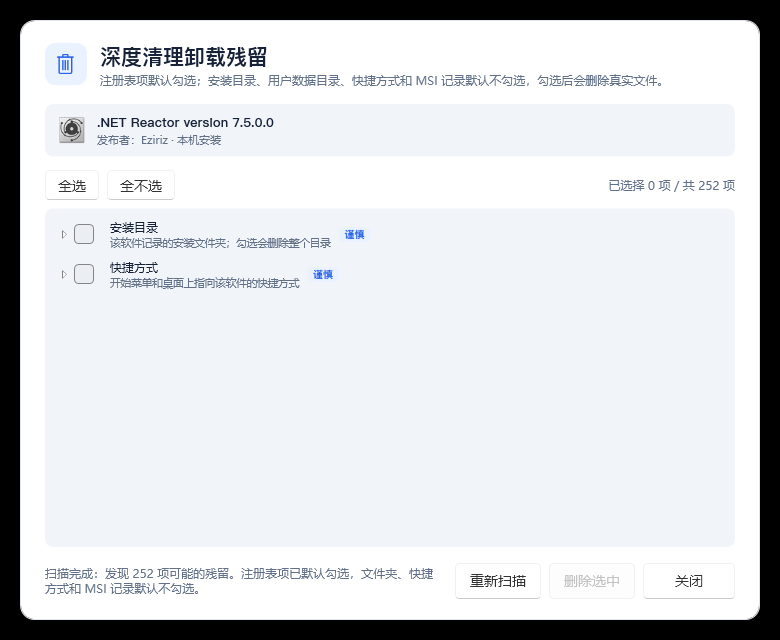
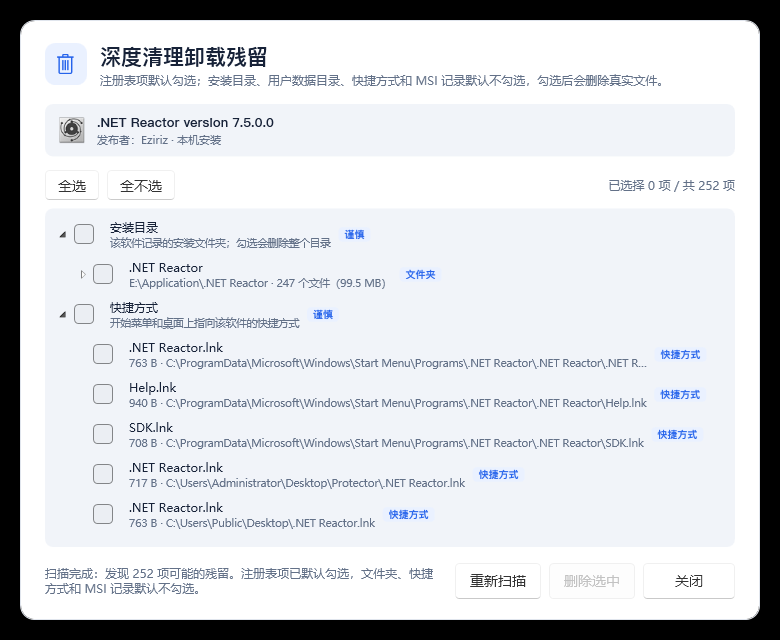
docs: 精简 README 为软件介绍/下载与使用指南，补充卸载与深度清理截图

diff --git a/README.md b/README.md
@@ -1,30 +1,18 @@
 # WinAppsManager
 
-Windows 软件管理器：WPF 桌面前端 + FastAPI 后端，支持联想应用商店、360 软件管家与内置精选三个软件源，提供软件目录、详情、截图、下载、卸载与残留清理。
-
-> 非商业源码许可（不是 OSI 开源许可）：允许个人学习、研究与非商业使用，**禁止商业使用、倒卖、销售或付费分发**。详见 [LICENSE](LICENSE)。
+Windows 软件管理器：像应用商店一样查找、下载和卸载 Windows 软件，支持联想应用商店、360 软件管家与内置精选三个软件源。
 
 ![软件列表](docs/screenshots/01-apps-list.png)
 
 ## 功能
 
-- **软件目录**：三个可切换的软件源（联想应用商店 / 360 软件管家 / 内置精选），分类导航、排序、分页、搜索；目录由后端缓存并定时更新。
-- **软件详情**：安装包大小、评分、开发者、分类、版本、多张应用截图，下载链接可复制/打开。
-- **下载中心**：并发分段下载、实时进度与速度、取消/重试/移除、打开安装包或下载目录；不自动运行安装包。
-- **卸载与残留清理**：读取 Windows 卸载注册表与当前用户 MSIX/商店应用，支持分类、搜索、批量卸载；卸载后可深度清理注册表项、安装目录、AppData、开始菜单/桌面快捷方式与 MSI 安装数据库，危险项默认不勾选，逐条校验后再删除。
-- **软件源与后端解耦**：软件源列表由服务端 `GET /api/v1/sources` 动态提供（含 `search_mode`：`catalog` 本地全量搜索 / `api` 服务端 API 搜索）；切换源后立即重新加载目录，左侧分类导航自动更新。后端地址可在设置中修改。
-- **体验与兼容**：浅色/深色/跟随系统主题、按系统架构过滤目录、Win7 SP1 兼容构建（net6）与 Win10 2004+ 完整构建（net8）、客户端/后端文件日志。
-
-### 深度清理残留
-
-卸载软件常留下注册表项、安装目录、AppData、开始菜单/桌面快捷方式和 MSI 安装数据库条目。WinAppsManager 在卸载后提供“深度清理残留…”：
-
-- 扫描九组位置：卸载登记项、`HKCU/HKLM\Software` 同名键、Run/RunOnce、启动项、Services、App Paths、安装目录、AppData/ProgramData、开始菜单/桌面快捷方式、MSI 产品/文件夹记录；
-- 结果按“文件夹 → 文件”展示，带大小与完整路径；**危险分组默认不勾选**，勾选后才删除；
-- 删除前逐条重新校验路径/注册表分支，只删勾选项，先删文件后清空目录，盘根、Windows、Program Files 等受保护位置一律拒绝；
-- 卸载过程支持停止，并按注册表/包是否存在核对卸载是否真正完成。
-
-![卸载与深度清理](docs/screenshots/09-deep-clean.png)
+- **软件商店**：联想应用商店、360 软件管家、内置精选三个源，随时切换；分类导航、排序、搜索、分页。
+- **软件详情**：安装包大小、评分、开发者、版本、应用截图；下载链接可复制或打开。
+- **下载中心**：分段并发下载、实时进度和速度、取消/重试/打开安装包。
+- **卸载软件**：读取 Windows 卸载注册表和 Microsoft Store/MSIX 应用，分类、搜索、批量卸载。
+- **深度清理残留**：卸载后清理注册表项、安装目录、AppData、快捷方式和 MSI 记录；危险项默认不勾选，逐条校验后删除。
+- **主题与设置**：浅色/深色/跟随系统，自定义下载目录、线程数、代理和软件源。
+- **系统兼容**：Win7 SP1 兼容构建（.NET 6）与 Win10 2004+ 完整构建。
 
 ## 截图
 
@@ -36,19 +24,21 @@ Windows 软件管理器：WPF 桌面前端 + FastAPI 后端，支持联想应用
 | --- | --- |
 | ![下载中心](docs/screenshots/03-download-center.png) | ![设置](docs/screenshots/04-settings.png) |
 
-| 联想商店视频预览 | 360 软件源 |
+| 已安装软件 | 深度清理残留 |
 | --- | --- |
-| ![视频预览](docs/screenshots/05-video-preview.png) | ![360 软件源](docs/screenshots/07-360-source.png) |
+| ![已安装软件](docs/screenshots/12-uninstall.png) | ![深度清理](docs/screenshots/09-deep-clean.png) |
 
-| 360 应用详情 | API 文档 |
+| 360 软件源 | 联想商店视频预览 |
 | --- | --- |
-| ![360 应用详情](docs/screenshots/08-360-detail.png) | ![API 文档](docs/screenshots/06-api-docs.png) |
+| ![360 软件源](docs/screenshots/07-360-source.png) | ![视频预览](docs/screenshots/05-video-preview.png) |
 
-## 快速开始
+## 下载与运行
 
-要求：Windows 10/11 开发机，Python 3.10+，.NET SDK 8+；运行客户端需 .NET 6/8 Desktop Runtime（Win7 只能使用 net6 目标，且不含商店应用）。
+仓库当前为私有，暂未提供预编译安装包；可以从源码构建运行。
 
-### 后端
+### 1. 启动后端
+
+要求 Python 3.10+。
 
 ```powershell
 python -m venv Backend\.venv
@@ -56,69 +46,50 @@ Backend\.venv\Scripts\python.exe -m pip install -r Backend\requirements.txt
 Backend\.venv\Scripts\python.exe Backend\main.py
 ```
 
-默认监听 `http://127.0.0.1:8080`，接口文档 <http://127.0.0.1:8080/docs>（Swagger 资源随后端提供，不依赖外网 CDN）。首次启动会加载软件目录、启动定时刷新线程；联想/360 目录来自 `Backend\.cache` 缓存，GET 请求只读缓存，不提供强制刷新参数。
+后端默认监听 `http://127.0.0.1:8080`，接口文档 <http://127.0.0.1:8080/docs>。
 
-### 客户端
+### 2. 启动客户端
+
+要求 .NET SDK 8+；运行客户端需要 .NET 6/8 Desktop Runtime。
 
 ```powershell
 dotnet build WinAppsManager\WinAppsManager.sln -c Release
 dotnet run --project WinAppsManager\WinAppsManager\WinAppsManager.csproj -f net6.0-windows7.0
 ```
 
-默认连接本机后端，可在**设置 → 服务端地址**修改；下载目录、线程数、超时、代理、GitHub 镜像、主题等也在设置页配置。
+Win7 SP1 使用 `net6.0-windows7.0`（不含商店应用）；Win10 2004+ / 11 可使用 `net8.0-windows10.0.19041.0` 完整版。需要独立安装包时可用仓库内的 `Properties/PublishProfiles` 发布。
 
-## 软件源
+## 使用方法
 
-| 软件源 | 内容 | 说明 |
-| --- | --- | --- |
-| 联想应用商店（默认） | 约 5111 款软件与游戏，含截图、版本、评分、下载量、更新说明 | 后端代理联想 PC 商店接口并缓存；图标/截图/封面客户端直连 CDN，失败回退后端代理；`search_mode=catalog`（本地全量搜索） |
-| 360 软件管家 | 目录为 24 个分类各前 3 页（约 5940 款热门子集）；**在线搜索覆盖 360 全量目录**（逆向了 `enc_client` 搜索接口，见 [docs/soft360-search-api.md](docs/soft360-search-api.md)） | 后端代理 360 目录与搜索接口；图标/截图客户端直连 CDN，失败回退后端代理；`search_mode=api`（服务端 API 全量搜索）；目录可扩大 `soft360.catalog_pages_per_category` |
-| 内置精选 | 项目维护的 45 款软件资料，默认只启用 Clash Verge Rev 与 Telegram（`builtin.app_ids`） | 后端解析官网/GitHub 版本与下载地址；其余条目保留但不预热 |
+1. 启动后端和客户端，客户端默认连接本机后端。
+2. 在**设置 → 软件源**选择联想应用商店、360 软件管家或内置精选；源列表和服务端地址也可在设置中修改。
+3. 在**软件列表**搜索或按分类浏览，打开详情查看截图并点击“开始下载”。
+4. 下载任务进入**下载中心**，完成后可打开安装包或下载文件夹。
+5. 在**卸载软件**选择要卸载的程序；右键或工具栏选择“深度清理残留…”可清理卸载后的注册表、目录和快捷方式。
+6. 深度清理中危险项默认不勾选，确认无误后再点“删除选中”。
 
-软件源列表由当前服务端决定：服务端不可用的源会在设置页标灰且不能选择；已保存的源不可用时自动回退到服务端默认源。切换源会清空按源隔离的目录缓存并立即在后台重新加载（停留在设置页时左侧分类导航也会自动更新），已经开始的下载任务不受影响。搜索方式读取 `/sources` 的 `search_mode`：`catalog` 模式在客户端完整目录内本地搜索（联想、内置精选），`api` 模式在输入时自动调用服务端搜索 API（360，覆盖全量目录）；旧服务端缺少该字段时按源回退。图片不维护固定域名白名单：详情截图与封面返回任意安全公网 CDN 地址，客户端直连失败才回退后端 `proxy_url`/`cover_proxy_url`，从而减少后端图片带宽。
+软件源决定搜索方式：联想源使用完整目录本地搜索，360 源由服务端 API 全量搜索；切换源后目录和左侧分类会自动更新。
 
-接口与配置细节见 [Backend/README.md](Backend/README.md)，联想/360 接口调研见 [docs/lenovo-store-api.md](docs/lenovo-store-api.md)、[docs/soft360-store-api.md](docs/soft360-store-api.md)，整体设计见 [docs/store-source-design.md](docs/store-source-design.md)。
+## 常见问题
 
-## 项目结构
+**Win7 能运行吗？** 可以，使用 Win7 SP1 兼容构建（net6 目标）；商店应用相关功能需要 Win10 2004+ 的完整版客户端。
 
-```text
-WinAppsManager/
-  WinAppsManager/        WPF 客户端（net6 / net8 双目标）
-    Models/              数据模型、设置、软件源 DTO
-    Pages/               软件列表、详情、下载中心、卸载、设置
-    Dialogs/             截图预览、卸载确认/进度、深度清理
-    Services/            目录/下载/设置/日志/卸载与残留扫描
-  Backend/               FastAPI 后端
-    main.py              应用入口、路由、缓存与定时刷新接线
-    data/                内置精选 45 款软件资料与图标
-    lenovo/              联想应用商店源
-    soft360/             360 软件管家源（目录/详情/加密搜索/图片）
-    tests/               unittest 测试
-  docs/                  接口调研、设计、部署与截图
-```
+**需要单独安装数据库或服务吗？** 不需要。后端是单进程 FastAPI 服务，默认只监听本机，数据和缓存保存在 `Backend\.cache`。
 
-## 配置与部署
+**卸载不掉的软件怎么办？** 先尝试正常卸载；“深度清理残留”只清理残留文件和注册表项，不会强制结束正在运行的程序。
 
-- 后端配置：`Backend/config.json`，可被 `Backend/config.local.json`（gitignore）和 `WINAPPSMANAGER_*` 环境变量覆盖；完整字段见 [Backend/README.md](Backend/README.md)。
-- 常用：`lenovo.catalog_refresh_interval_seconds`（默认 300）、`soft360.catalog_pages_per_category`（默认 3，1–20）、`soft360.catalog_refresh_interval_seconds`（默认 1800）、`logging.*`。
-- 公网部署：`Dockerfile` / `docker-compose.yml` / `deploy/` 下 systemd 与 Caddy 示例，步骤与安全清单见 [docs/deploy.md](docs/deploy.md)。
+**软件图标/截图不显示？** 图片优先从软件源 CDN 加载，失败会自动回退到后端代理；请检查网络，或在设置中切换服务端。
 
-## 验证
+## 许可证
 
-```powershell
-# 后端全量测试（离线，不访问真实网络）
-Backend\.venv\Scripts\python.exe -m unittest discover -s Backend\tests
+本项目采用自定义《WinAppsManager 非商业源代码许可协议 1.0》：允许个人学习、研究、非商业使用与修改；**禁止商业使用、倒卖、销售、付费分发**。这是 source-available 许可，不是 OSI 认可的开源许可。详见 [LICENSE](LICENSE)。
 
-# 客户端双目标构建（0 警告、0 错误）
-dotnet build WinAppsManager\WinAppsManager.sln -c Release
-```
+联想应用商店、360 软件管家的名称、数据、图标与商标归各自权利人，本项目与它们无隶属或背书关系。
 
-## 许可证与仓库计划
+## 开发文档
 
-本项目采用自定义《WinAppsManager 非商业源代码许可协议 1.0》：
-
-- 允许个人学习、研究、非商业使用、修改与分发（保留版权与许可声明）；
-- **禁止商业使用、倒卖、销售、付费分发、商业托管/SaaS、广告变现**；商业使用需作者书面授权；
-- 这是 **source-available** 许可，不是 OSI 认可的开源许可；联想/360 的名称、数据、图标与商标归各自权利人，本项目与它们无隶属或背书关系。
-
-仓库当前为私有；API 服务部署与安全审查完成后再转为公开，检查项见 [docs/deploy.md](docs/deploy.md#5-转为公开仓库部署完成后)。
+- 后端接口与配置：[Backend/README.md](Backend/README.md)
+- 软件源与设计说明：[docs/store-source-design.md](docs/store-source-design.md)
+- 联想接口调研：[docs/lenovo-store-api.md](docs/lenovo-store-api.md)
+- 360 接口调研：[docs/soft360-store-api.md](docs/soft360-store-api.md)、[docs/soft360-search-api.md](docs/soft360-search-api.md)
+- 部署与安全：[docs/deploy.md](docs/deploy.md)
